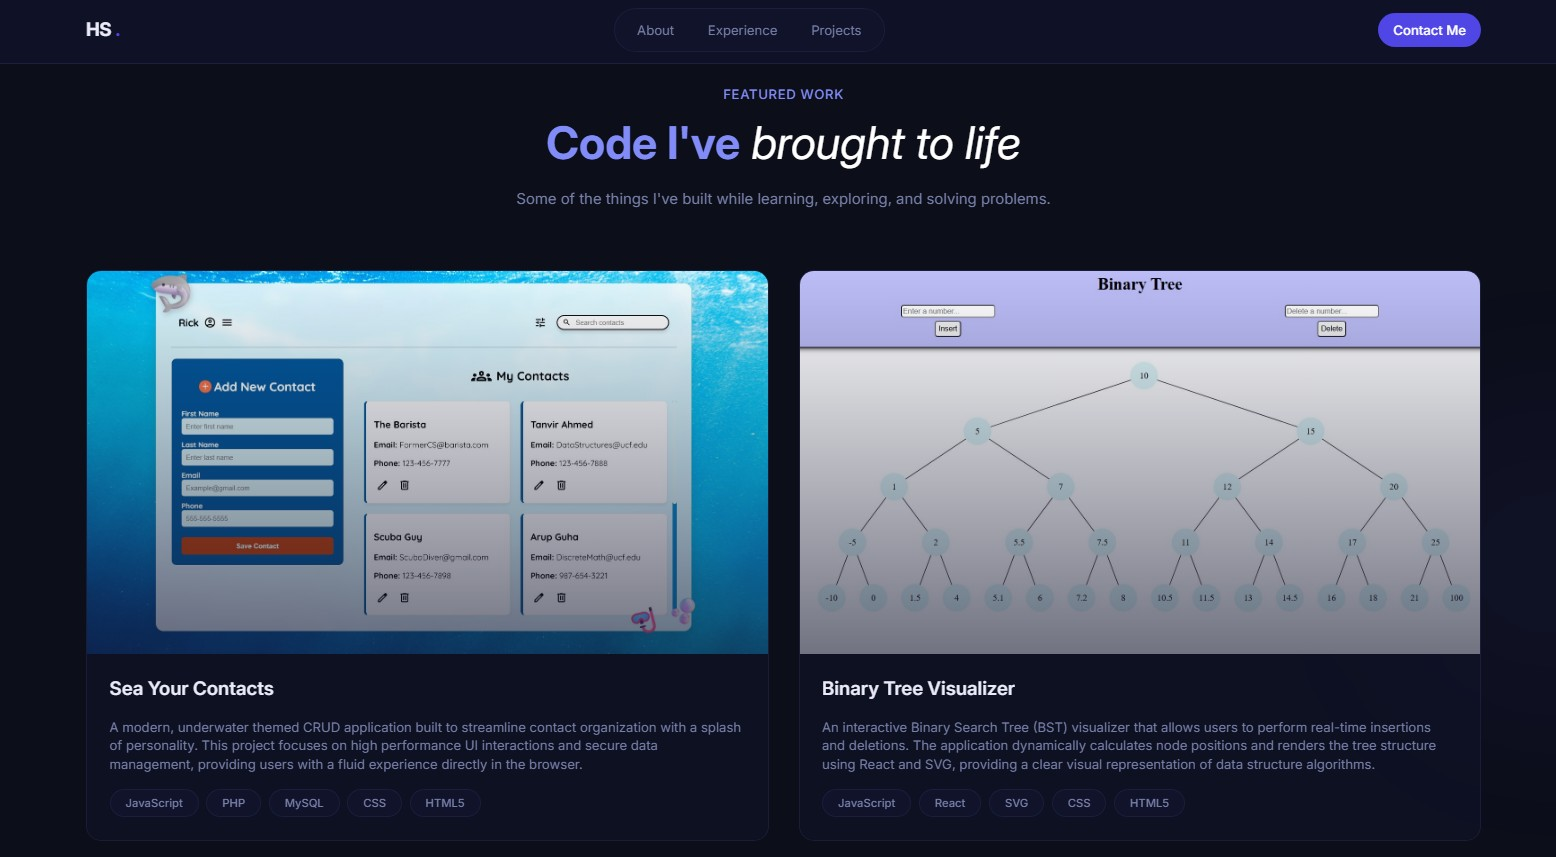
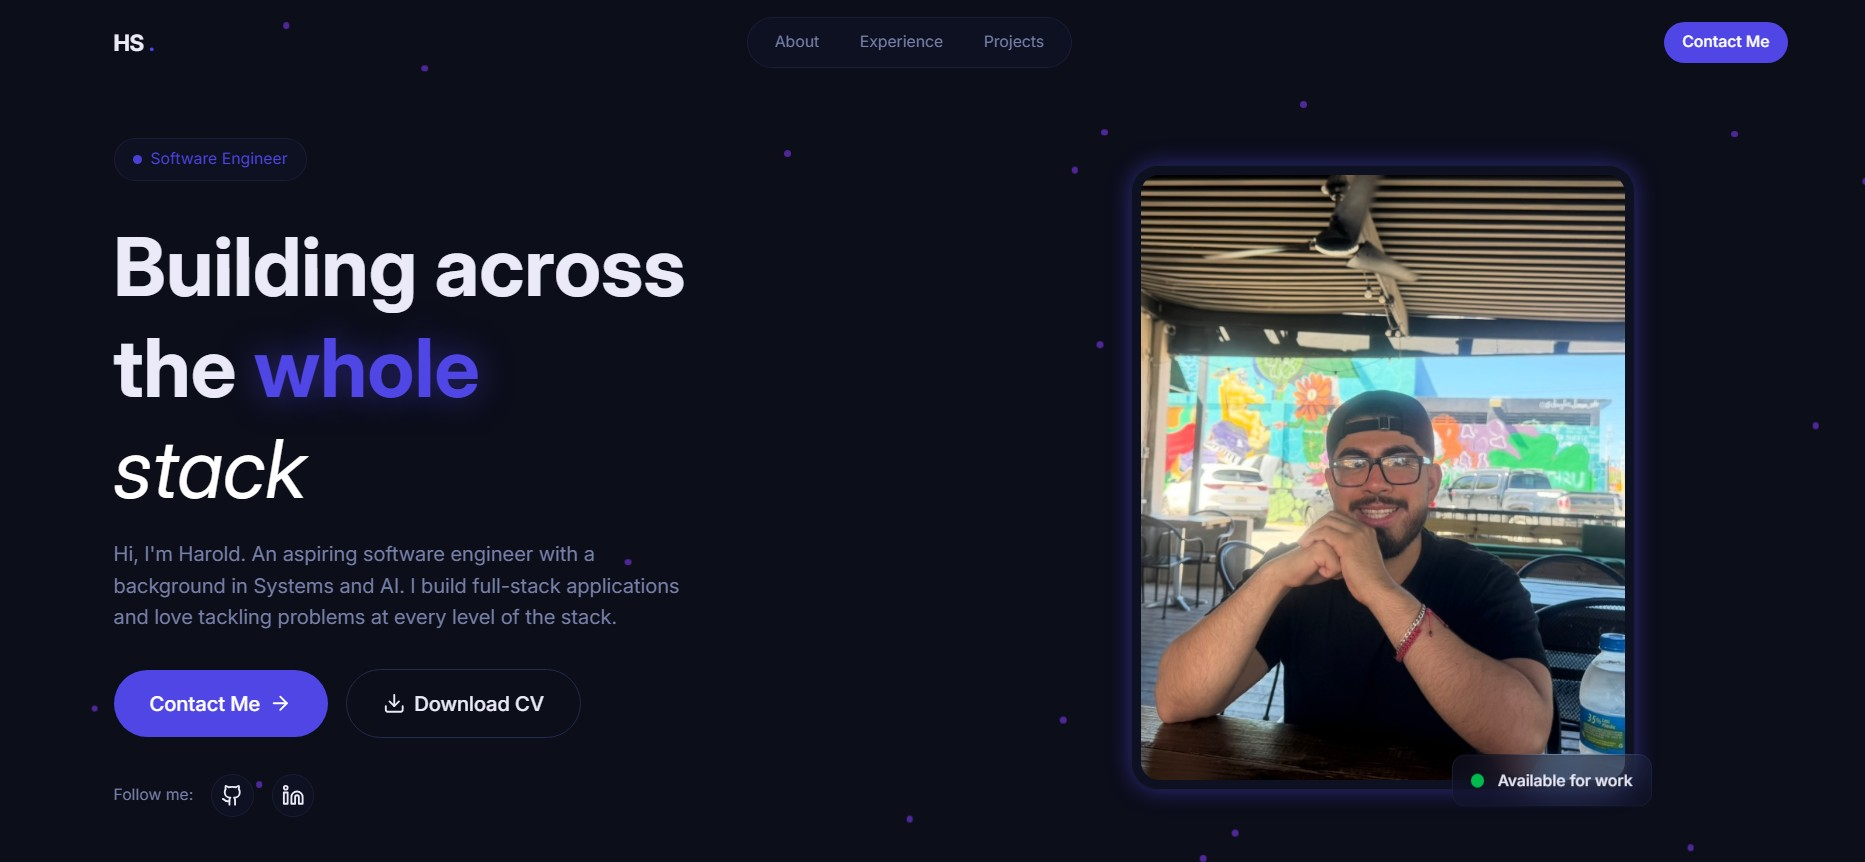
small changes.

diff --git a/myPortfolio/src/sections/Hero.jsx b/myPortfolio/src/sections/Hero.jsx
@@ -5,11 +5,13 @@ import { AnimatedButton } from "../components/AnimatedButton";
 const mySkills = [
     "React",
     "JavaScript",
+    "TypeScript",
     "Node.js",
     "C",
     "Java",
     "TailwindCSS",
     "MySQL",
+    "MongoDB",
     "PHP",
     "Git",
     "GitHub",
